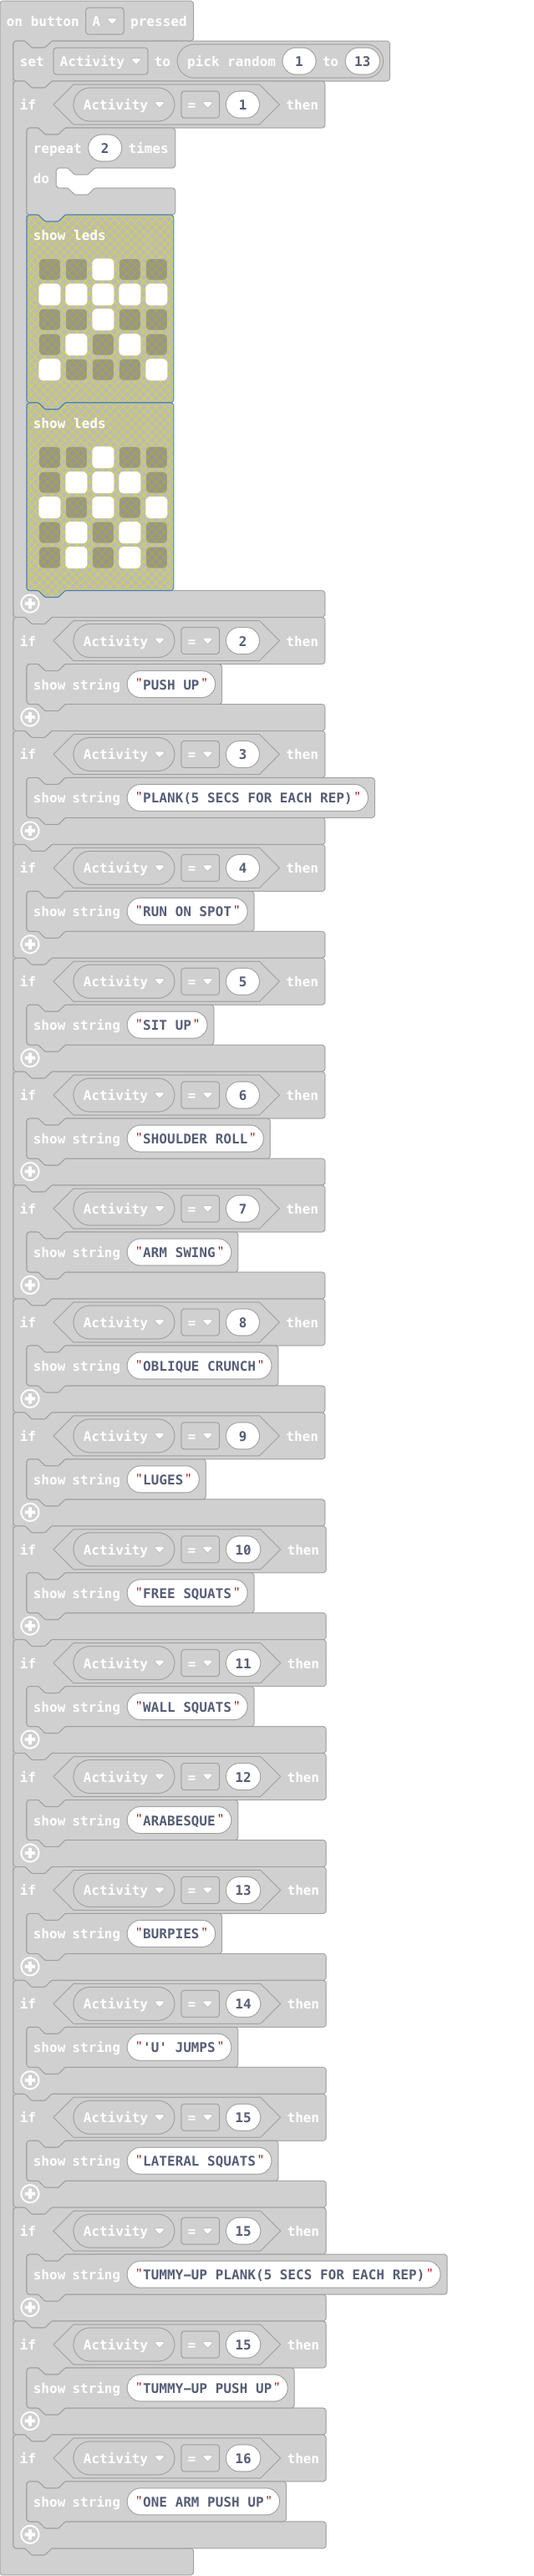
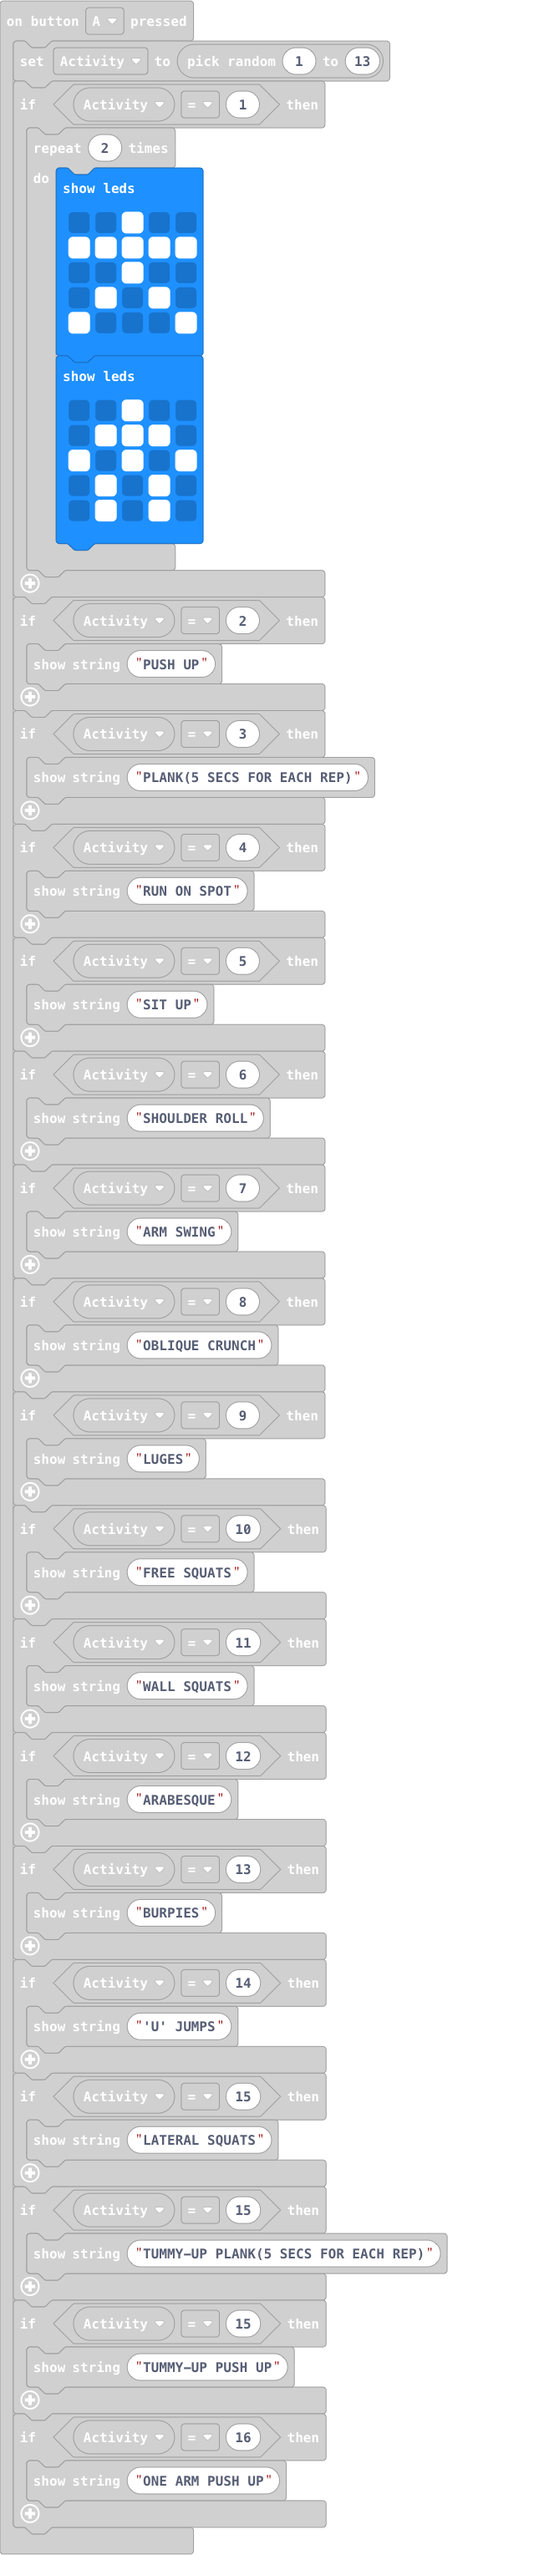
Update main.blocks, main.ts

Changed region(s): [[0.0297, 0.0311, 0.8326, 0.963], [0.446, 0.0311, 0.4757, 0.0621]]

diff --git a/main.ts b/main.ts
@@ -3,7 +3,20 @@ input.onButtonPressed(Button.A, function () {
     Activity = randint(1, 13)
     if (Activity == 1) {
         for (let index = 0; index < 2; index++) {
-        	
+            basic.showLeds(`
+                . . # . .
+                # # # # #
+                . . # . .
+                . # . # .
+                # . . . #
+                `)
+            basic.showLeds(`
+                . . # . .
+                . # # # .
+                # . # . #
+                . # . # .
+                . # . # .
+                `)
         }
     }
     if (Activity == 2) {
